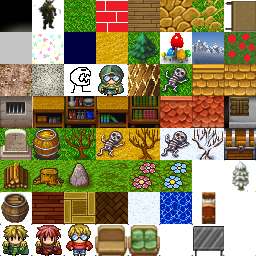
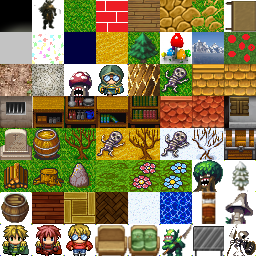
Wprowadzenie bossa w nowym pomieszczeniu, usunięcie sprzedaży itemów, zmiany wyglądu (oraz nowe kafelki by Sylwek)

diff --git a/Kod/rogalik/ImageRes.h b/Kod/rogalik/ImageRes.h
@@ -106,8 +106,9 @@ public:
 		CHAR3,
 		SIT1,
 		SIT2,
-		NEED3,
+		BOSS,
 		TABLE,
+		GUARD
 
 	};
 private:
